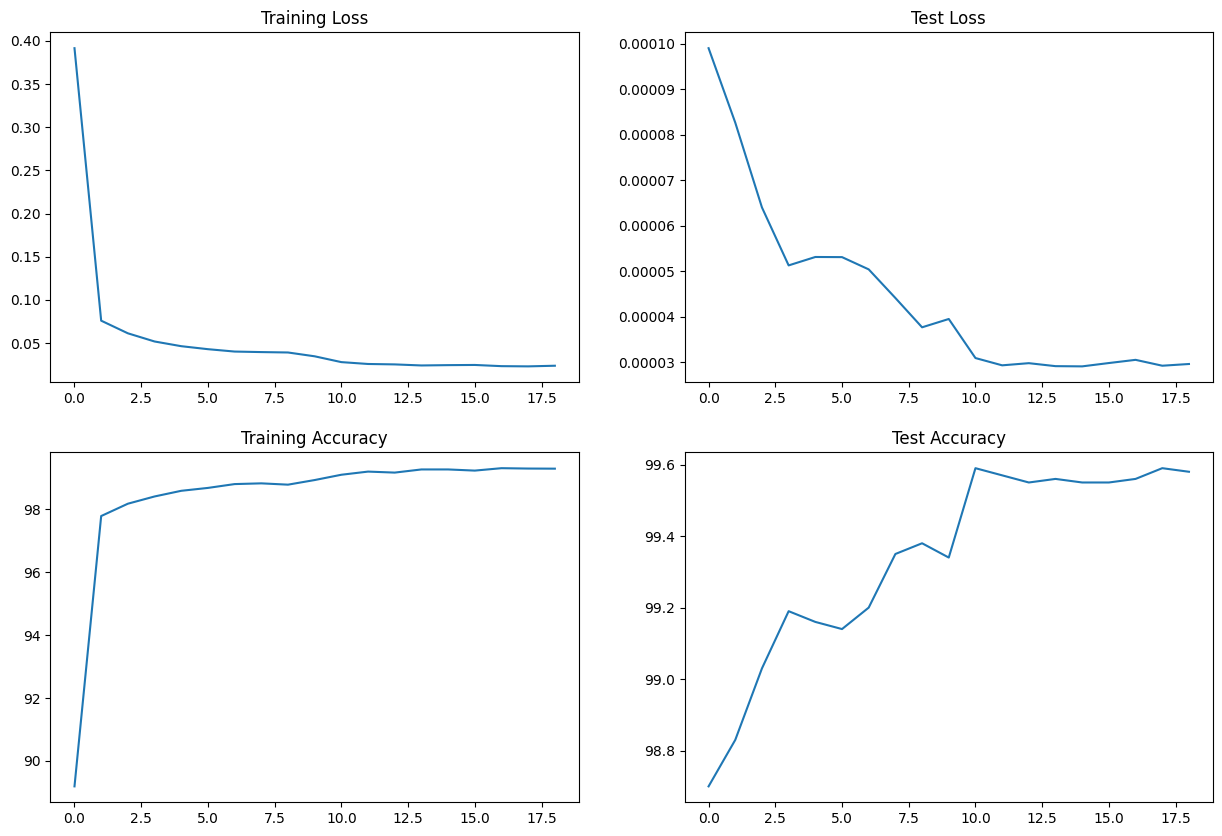
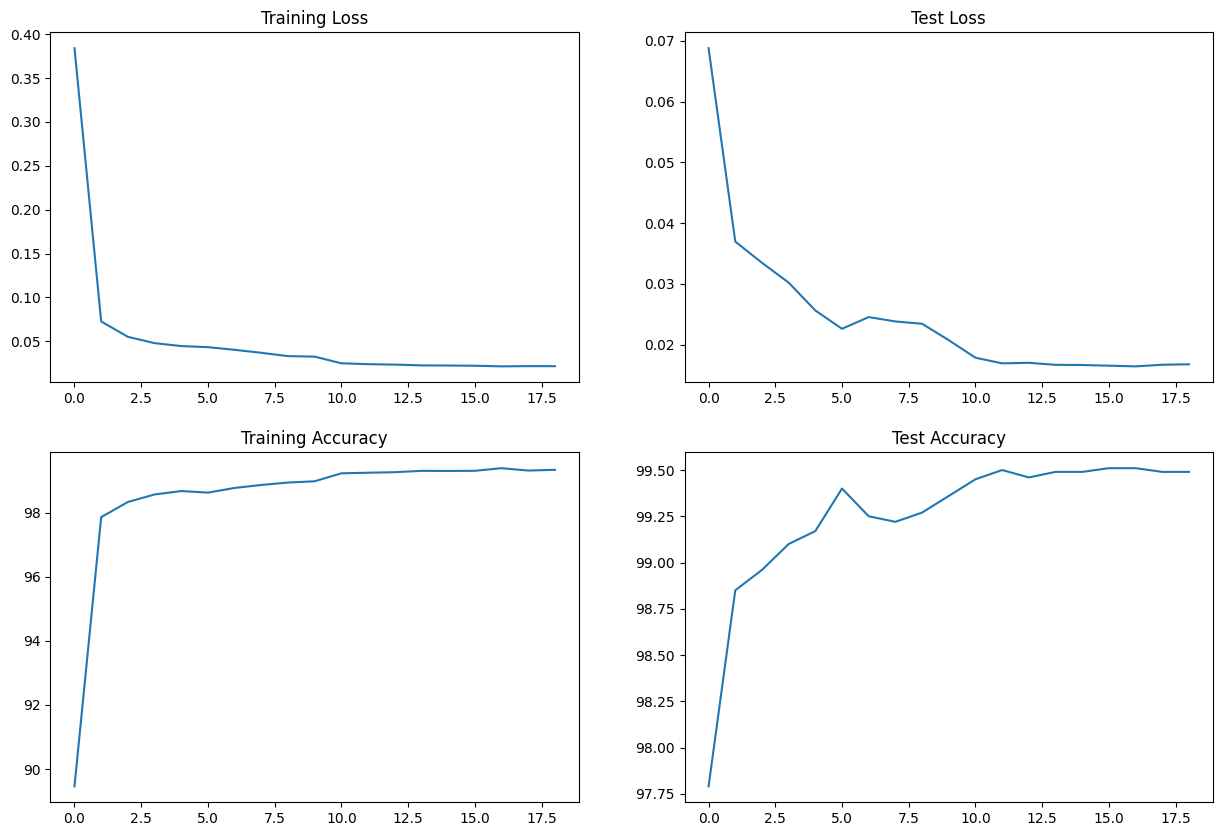
Update model performance log and README.md

diff --git a/Part 2/README.md b/Part 2/README.md
@@ -2,6 +2,8 @@
 
 Note: This is a development of [s5-pytorch-tutorial](https://github.com/aakashvardhan/s5-pytorch-tutorial)
 
+(Updated on 2024-03-02): Made some last minute changes and updated the model performance log.
+
 - [Motivation](#motivation)
 - [Model Architecture](#model-architecture)
 - [Data Loading and Transformation](#data-loading-and-transformation)
@@ -134,24 +136,24 @@ The model consists of 19,866 parameters, well within the specified constraint of
 ```
 Adjusting learning rate of group 0 to 5.0000e-02.
 Epoch 1
-Train: Loss=0.0675 Batch_id=117 Accuracy=89.19: 100%|██████████| 118/118 [00:32<00:00,  3.58it/s]
-Test set: Average loss: 0.0001, Accuracy: 9870/10000 (98.70%)
+Train: Loss=0.0867 Batch_id=117 Accuracy=89.46: 100%|██████████| 118/118 [00:30<00:00,  3.89it/s]
+Test set: Average loss: 0.0688, Accuracy: 9779/10000 (97.79%)
 Adjusting learning rate of group 0 to 5.0000e-02.
 Epoch 2
-Train: Loss=0.1117 Batch_id=117 Accuracy=97.78: 100%|██████████| 118/118 [00:20<00:00,  5.89it/s]
-Test set: Average loss: 0.0001, Accuracy: 9883/10000 (98.83%)
+Train: Loss=0.0515 Batch_id=117 Accuracy=97.86: 100%|██████████| 118/118 [00:20<00:00,  5.66it/s]
+Test set: Average loss: 0.0370, Accuracy: 9885/10000 (98.85%)
 Adjusting learning rate of group 0 to 5.0000e-02.
 Epoch 3
-Train: Loss=0.0661 Batch_id=117 Accuracy=98.17: 100%|██████████| 118/118 [00:20<00:00,  5.71it/s]
-Test set: Average loss: 0.0001, Accuracy: 9903/10000 (99.03%)
+Train: Loss=0.0109 Batch_id=117 Accuracy=98.33: 100%|██████████| 118/118 [00:21<00:00,  5.47it/s]
+Test set: Average loss: 0.0335, Accuracy: 9896/10000 (98.96%)
 Adjusting learning rate of group 0 to 5.0000e-02.
 Epoch 4
-Train: Loss=0.0122 Batch_id=117 Accuracy=98.40: 100%|██████████| 118/118 [00:21<00:00,  5.47it/s]
-Test set: Average loss: 0.0001, Accuracy: 9919/10000 (99.19%)
+Train: Loss=0.0274 Batch_id=117 Accuracy=98.56: 100%|██████████| 118/118 [00:21<00:00,  5.52it/s]
+Test set: Average loss: 0.0302, Accuracy: 9910/10000 (99.10%)
 Adjusting learning rate of group 0 to 5.0000e-02.
 Epoch 5
-Train: Loss=0.0082 Batch_id=117 Accuracy=98.58: 100%|██████████| 118/118 [00:21<00:00,  5.55it/s]
-Test set: Average loss: 0.0001, Accuracy: 9916/10000 (99.16%)
+Train: Loss=0.0858 Batch_id=117 Accuracy=98.67: 100%|██████████| 118/118 [00:21<00:00,  5.41it/s]
+Test set: Average loss: 0.0256, Accuracy: 9917/10000 (99.17%)
 
 .......................
 .......................
@@ -159,29 +161,30 @@ Test set: Average loss: 0.0001, Accuracy: 9916/10000 (99.16%)
 .......................
 
 Epoch 15
-Train: Loss=0.0088 Batch_id=117 Accuracy=99.26: 100%|██████████| 118/118 [00:22<00:00,  5.34it/s]
-Test set: Average loss: 0.0000, Accuracy: 9955/10000 (99.55%)
+Train: Loss=0.0431 Batch_id=117 Accuracy=99.30: 100%|██████████| 118/118 [00:21<00:00,  5.48it/s]
+Test set: Average loss: 0.0166, Accuracy: 9949/10000 (99.49%)
 Adjusting learning rate of group 0 to 5.0000e-03.
 Epoch 16
-Train: Loss=0.0227 Batch_id=117 Accuracy=99.22: 100%|██████████| 118/118 [00:20<00:00,  5.64it/s]
-Test set: Average loss: 0.0000, Accuracy: 9955/10000 (99.55%)
+Train: Loss=0.0354 Batch_id=117 Accuracy=99.30: 100%|██████████| 118/118 [00:21<00:00,  5.55it/s]
+Test set: Average loss: 0.0165, Accuracy: 9951/10000 (99.51%)
 Adjusting learning rate of group 0 to 5.0000e-03.
 Epoch 17
-Train: Loss=0.0294 Batch_id=117 Accuracy=99.30: 100%|██████████| 118/118 [00:20<00:00,  5.63it/s]
-Test set: Average loss: 0.0000, Accuracy: 9956/10000 (99.56%)
+Train: Loss=0.1070 Batch_id=117 Accuracy=99.39: 100%|██████████| 118/118 [00:20<00:00,  5.70it/s]
+Test set: Average loss: 0.0164, Accuracy: 9951/10000 (99.51%)
 Adjusting learning rate of group 0 to 5.0000e-03.
 Epoch 18
-Train: Loss=0.0284 Batch_id=117 Accuracy=99.29: 100%|██████████| 118/118 [00:21<00:00,  5.41it/s]
-Test set: Average loss: 0.0000, Accuracy: 9959/10000 (99.59%)
+Train: Loss=0.0060 Batch_id=117 Accuracy=99.31: 100%|██████████| 118/118 [00:20<00:00,  5.78it/s]
+Test set: Average loss: 0.0167, Accuracy: 9949/10000 (99.49%)
 Adjusting learning rate of group 0 to 5.0000e-03.
 Epoch 19
-Train: Loss=0.0075 Batch_id=117 Accuracy=99.28: 100%|██████████| 118/118 [00:22<00:00,  5.28it/s]
-Test set: Average loss: 0.0000, Accuracy: 9958/10000 (99.58%)
+Train: Loss=0.0017 Batch_id=117 Accuracy=99.33: 100%|██████████| 118/118 [00:21<00:00,  5.52it/s]
+Test set: Average loss: 0.0167, Accuracy: 9949/10000 (99.49%)
 Adjusting learning rate of group 0 to 5.0000e-03.
 
 ```
 
 The model achieves a validation accuracy of 99.58% in just 19 epochs, demonstrating the effectiveness of the architecture in learning from the MNIST dataset, including less overfitting of the model. The loss and accuracy plots illustrate the model's learning progress, with the validation accuracy consistently improving over the training epochs.
+
 
 ![Loss and Accuracy Plots](https://github.com/aakashvardhan/s6-backprop/blob/main/Part%202/model-performance.png)
 
